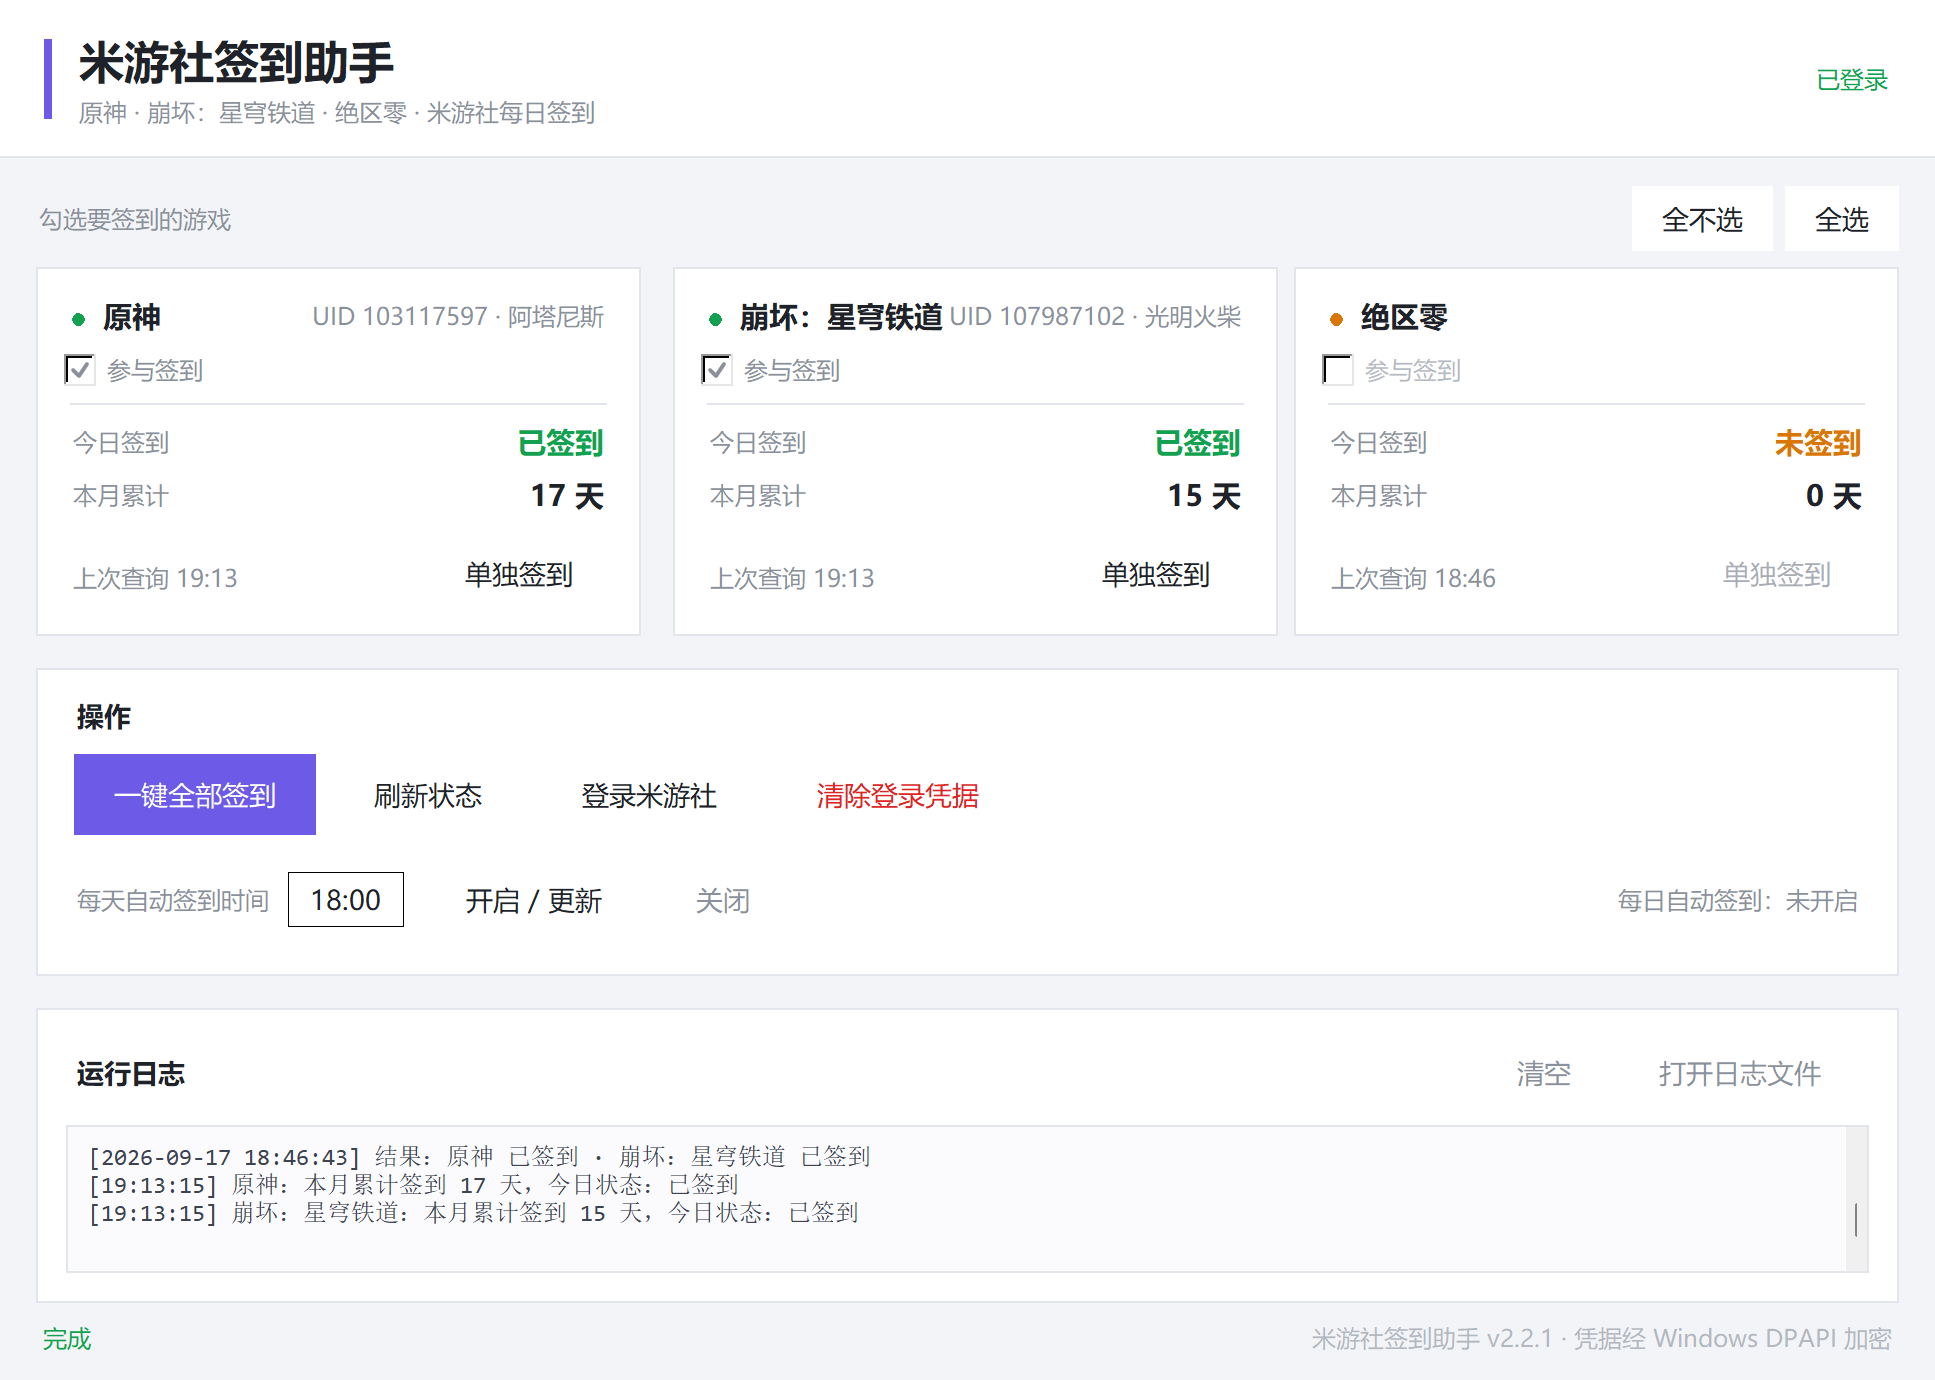
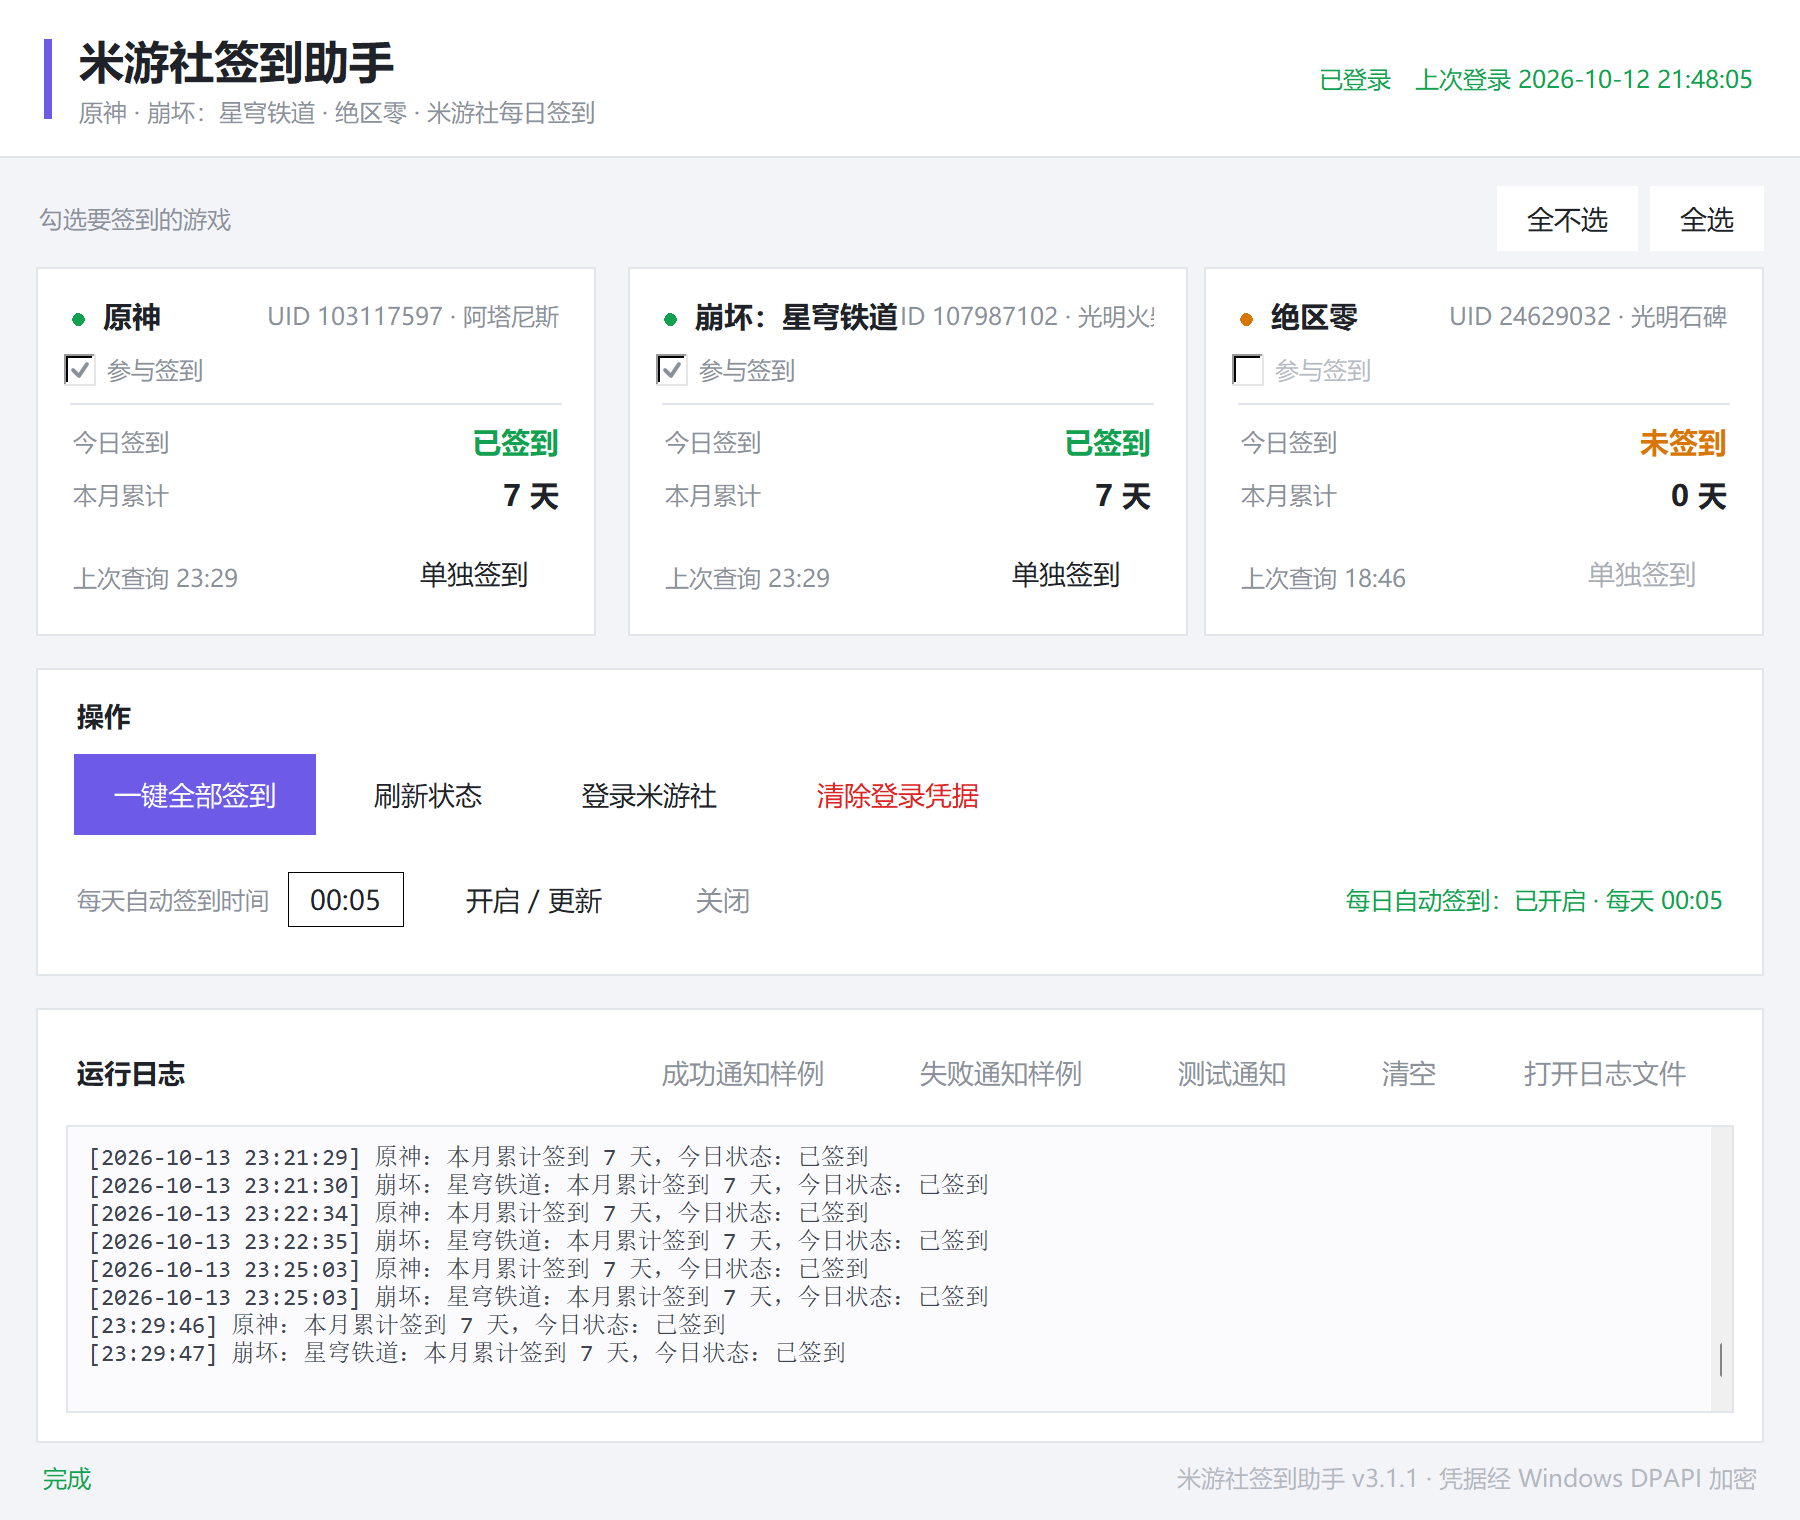
feat(v3.1.1): 新增签到成功/失败通知样例按钮
- 运行日志栏右上角加【成功通知样例】【失败通知样例】：用与真实结果同构的假数据调用 core.notify_sign_result 预览两种通知，不会真签到

- 抽出 _ensure_toast（系统通知不可用时顺手启用），三个通知类按钮共用

- README：版本徽标、通知说明、v3.1.1 更新日志；界面截图重出（1800x1520，含新按钮）

diff --git a/README.md b/README.md
@@ -1,14 +1,12 @@
 # 米游社签到助手
 
-> **v3.1.0** · [更新日志](#更新日志) · **代码、文档与图标均由 AI 生成（vibe coding）**
+> **v3.1.1** · [更新日志](#更新日志) · **代码、文档与图标均由 AI 生成（vibe coding）**
 
 原神 / 崩坏：星穹铁道 / 绝区零 每日自动签到，带图形界面。**不用开游戏**，
 登录一次后可以一键把勾选的游戏一起签了，也可以交给 Windows 计划任务
 每天在后台静默完成，奖励直接进游戏邮箱。
 
 ![界面预览](assets/screenshot.png)
-
-> 截图中 UID 与昵称为演示数据。
 
 ---
 
@@ -81,6 +79,9 @@ cd mys-signin-helper
 > ① 双击本目录下的 **`测试系统通知.bat`**；
 > ② 在程序里点【测试通知】（运行日志那一栏右上角）；
 > ③ 命令行 `python cli.py doctor --notify`（便携版：`米游社签到助手.exe doctor --notify`）。
+>
+> 想看看**签到成功后通知的具体内容**，点运行日志栏右上角的
+> 【成功通知样例】/【失败通知样例】——用假数据弹一条样例，不会真的去签到。
 >
 > **它是怎么做到的**：WinRT 的系统通知只允许"已安装应用"（带程序包标识）的
 > 进程调用，纯源码运行的 Python 会报 `0x80073D54`。所以随程序安装了一个极小的
@@ -195,6 +196,15 @@ cookie 有效期约一个月（其中用于游戏签到的 `cookie_token` 会话
 ---
 
 ## 更新日志
+
+### v3.1.1
+
+**新：【成功通知样例】/【失败通知样例】按钮**（运行日志栏右上角，挨着【测试通知】）。
+
+- 一键预览"签到成功"和"签到失败"两种通知的具体内容，用的是与真实结果
+  同构的假数据，**不会真的去签到**
+- 【测试通知】验证"通知能不能弹出来"，样例按钮验证"签完弹的内容对不对"
+- 界面截图同步更新到当前版本
 
 ### v3.1.0
 
